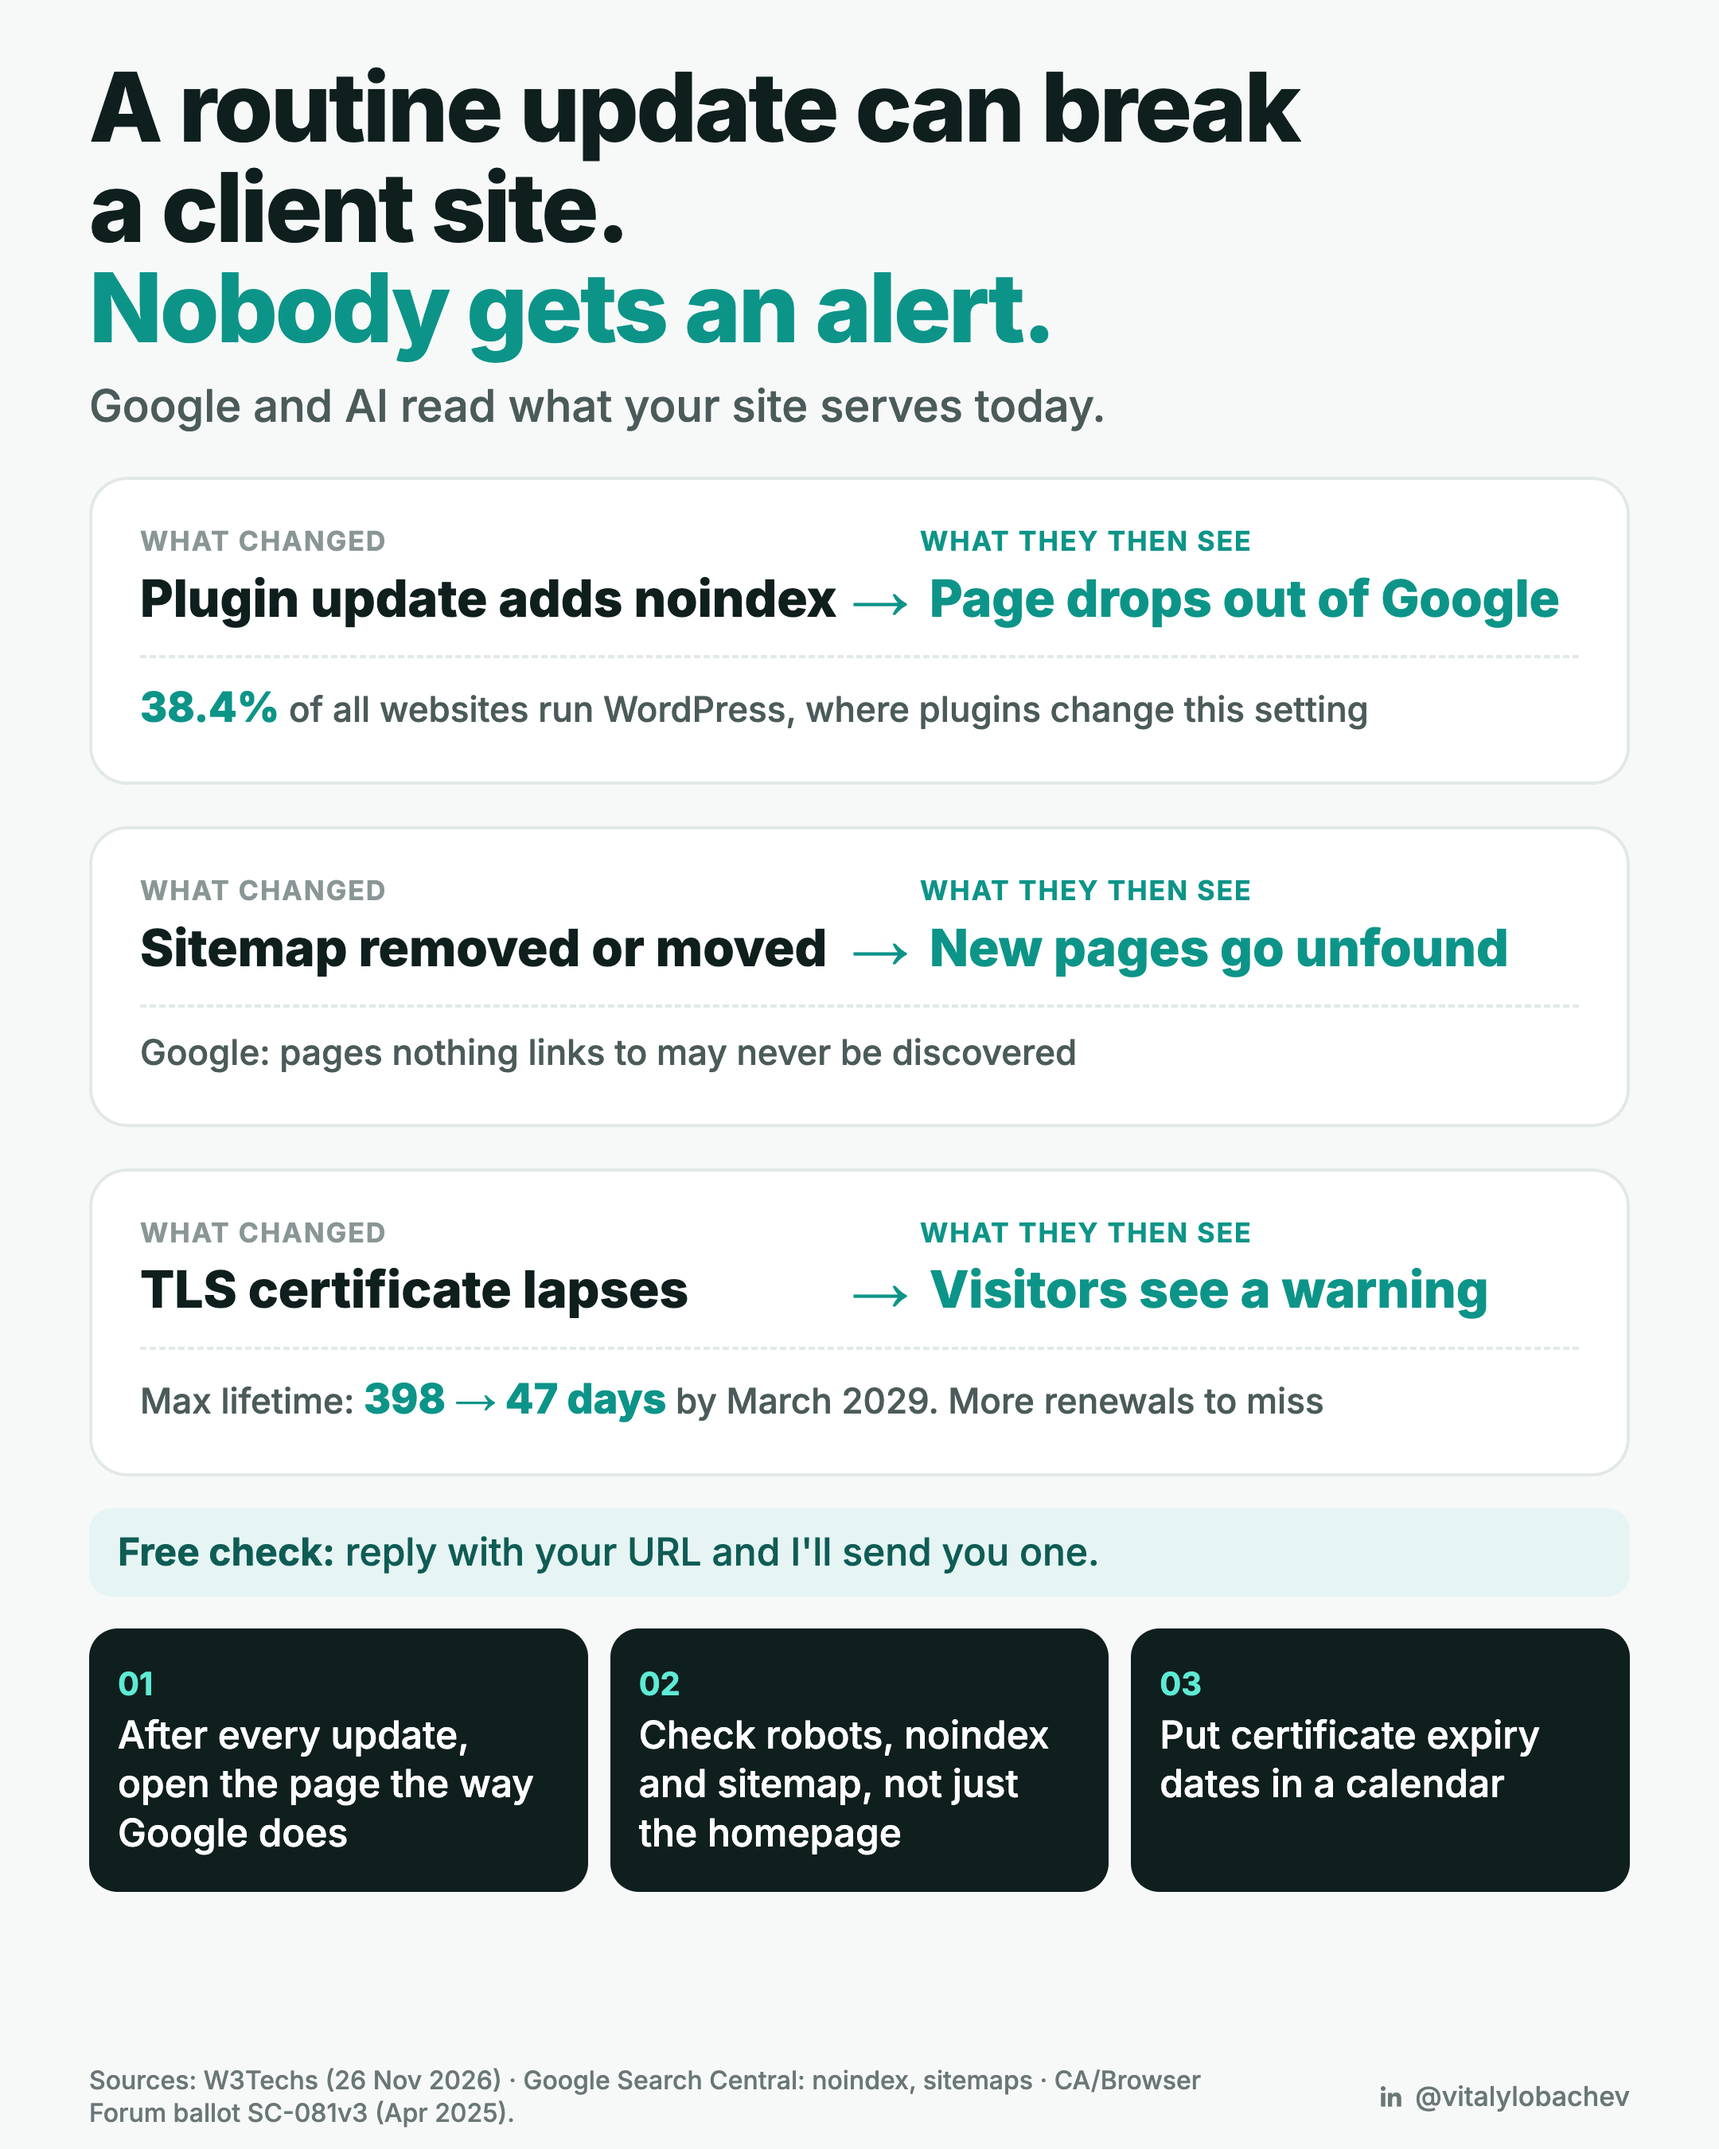
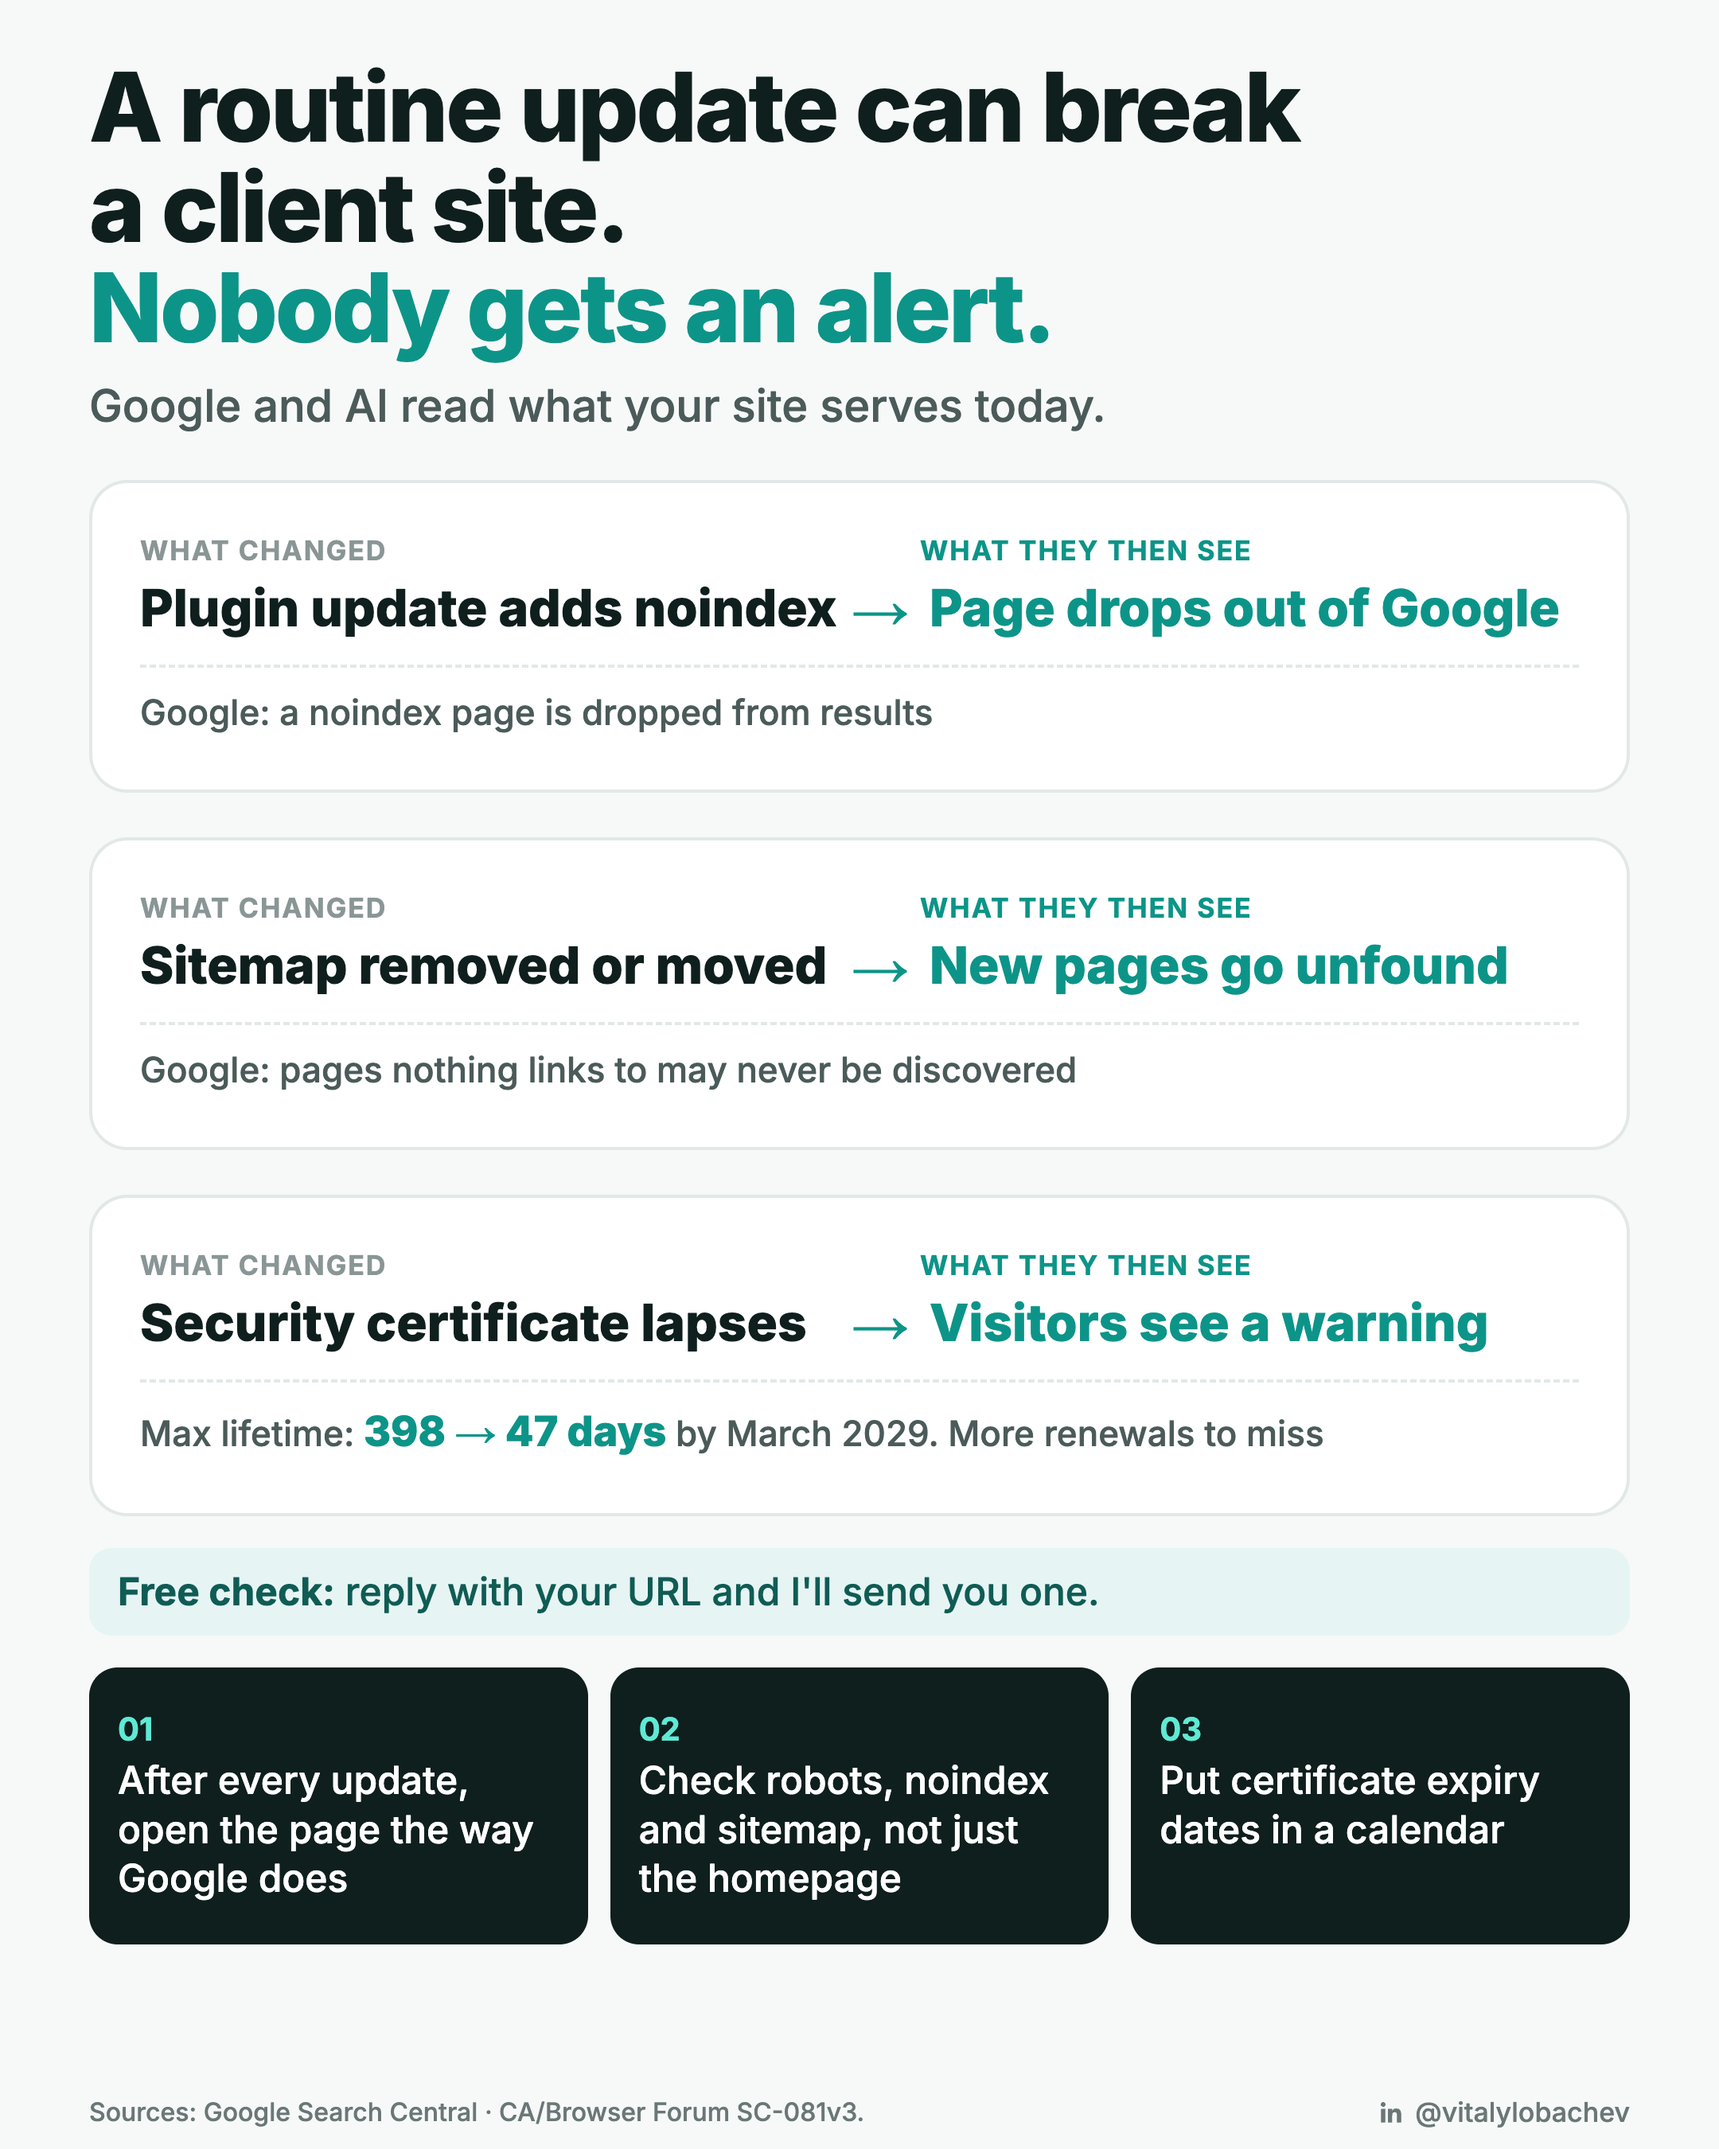
fix(content): drop filler and unsupported number from post 15

diff --git a/posts/15-site-breaks-silently/source/infographic.html b/posts/15-site-breaks-silently/source/infographic.html
@@ -4,7 +4,7 @@ body{width:1080px;height:1350px;background:#f7f9f9;font-family:Inter,-apple-syst
 h1{font-size:60px;line-height:1.05;font-weight:800;letter-spacing:-1.5px}
 h1 em{font-style:normal;color:#0d9488}
 .sub{font-size:28px;line-height:1.3;color:#4b5b5a;margin-top:12px;font-weight:500}
-.card{background:#fff;border:2px solid #e2e8e8;border-radius:24px;padding:28px 30px 30px;margin-top:26px}
+.card{background:#fff;border:2px solid #e2e8e8;border-radius:24px;padding:32px 30px 34px;margin-top:28px}
 .lab{display:flex;font-size:17px;font-weight:700;color:#8a9696;text-transform:uppercase;letter-spacing:1px}
 .lab span:first-child{width:490px}.lab span:last-child{color:#0d9488}
 .pair{display:flex;align-items:center;margin-top:4px}
@@ -15,7 +15,7 @@ h1 em{font-style:normal;color:#0d9488}
 .num b{color:#0d9488;font-size:26px;font-weight:800}
 .note{margin-top:20px;font-size:24px;line-height:1.3;color:#0f5c55;background:#e6f5f3;border-radius:14px;padding:12px 18px}
 .tips{display:flex;gap:14px;margin-top:20px}
-.tip{flex:1;background:#0f1f1e;color:#fff;border-radius:18px;padding:22px 18px;font-size:24px;line-height:1.28;font-weight:500}
+.tip{flex:1;background:#0f1f1e;color:#fff;border-radius:18px;padding:26px 18px;font-size:24px;line-height:1.28;font-weight:500}
 .tip b{color:#5eead4;display:block;font-size:20px;margin-bottom:4px}
 .foot{display:flex;justify-content:space-between;align-items:center;gap:20px;position:absolute;left:56px;right:56px;bottom:12px;font-size:16px;color:#6b7777;line-height:1.3}
 .foot .h{display:flex;align-items:center;gap:6px;font-size:17px;font-weight:500;white-space:nowrap}.foot .src{max-width:720px}.foot .h svg{width:18px;height:18px;display:block;fill:#6b7777}</style></head><body>
@@ -23,14 +23,14 @@ h1 em{font-style:normal;color:#0d9488}
 <p class="sub">Google and AI read what your site serves today.</p>
 <section class="card"><div class="lab"><span>What changed</span><span>What they then see</span></div>
 <div class="pair"><div class="ch">Plugin update adds noindex</div><div class="ar">→</div><div class="se">Page drops out of Google</div></div>
-<div class="num"><b>38.4%</b> of all websites run WordPress, where plugins change this setting</div></section>
+<div class="num">Google: a noindex page is dropped from results</div></section>
 <section class="card"><div class="lab"><span>What changed</span><span>What they then see</span></div>
 <div class="pair"><div class="ch">Sitemap removed or moved</div><div class="ar">→</div><div class="se">New pages go unfound</div></div>
 <div class="num">Google: pages nothing links to may never be discovered</div></section>
 <section class="card"><div class="lab"><span>What changed</span><span>What they then see</span></div>
-<div class="pair"><div class="ch">TLS certificate lapses</div><div class="ar">→</div><div class="se">Visitors see a warning</div></div>
+<div class="pair"><div class="ch">Security certificate lapses</div><div class="ar">→</div><div class="se">Visitors see a warning</div></div>
 <div class="num">Max lifetime: <b>398 → 47 days</b> by March 2029. More renewals to miss</div></section>
 <div class="note"><b>Free check:</b> reply with your URL and I'll send you one.</div>
 <div class="tips"><div class="tip"><b>01</b>After every update, open the page the way Google does</div><div class="tip"><b>02</b>Check robots, noindex and sitemap, not just the homepage</div><div class="tip"><b>03</b>Put certificate expiry dates in a calendar</div></div>
-<div class="foot"><span class="src">Sources: W3Techs (26 Nov 2026) · Google Search Central: noindex, sitemaps · CA/Browser Forum ballot SC-081v3 (Apr 2025).</span><span class="h"><svg viewBox="0 0 24 24"><path d="M20.45 20.45h-3.56v-5.57c0-1.33-.03-3.04-1.85-3.04-1.86 0-2.14 1.45-2.14 2.94v5.67H9.35V9h3.41v1.56h.05c.48-.9 1.64-1.85 3.37-1.85 3.6 0 4.27 2.37 4.27 5.46v6.28zM5.34 7.43a2.06 2.06 0 1 1 0-4.12 2.06 2.06 0 0 1 0 4.12zM7.12 20.45H3.56V9h3.56v11.45z"/></svg>@vitalylobachev</span></div>
+<div class="foot"><span class="src">Sources: Google Search Central · CA/Browser Forum SC-081v3.</span><span class="h"><svg viewBox="0 0 24 24"><path d="M20.45 20.45h-3.56v-5.57c0-1.33-.03-3.04-1.85-3.04-1.86 0-2.14 1.45-2.14 2.94v5.67H9.35V9h3.41v1.56h.05c.48-.9 1.64-1.85 3.37-1.85 3.6 0 4.27 2.37 4.27 5.46v6.28zM5.34 7.43a2.06 2.06 0 1 1 0-4.12 2.06 2.06 0 0 1 0 4.12zM7.12 20.45H3.56V9h3.56v11.45z"/></svg>@vitalylobachev</span></div>
 </body></html>

diff --git a/posts/15-site-breaks-silently/post.md b/posts/15-site-breaks-silently/post.md
@@ -10,15 +10,16 @@ Routine updates quietly break client sites. Google and AI assistants read what t
 
 | Change | Effect | Number | Source |
 |---|---|---|---|
-| Plugin or theme update adds noindex | Page is dropped from Google results | WordPress runs 38.4% of all websites (context for how common plugin-driven sites are; not an effect size) | https://w3techs.com/technologies/details/cm-wordpress (page dated 26 Nov 2026, fetched 26 Nov 2026) |
+| Plugin or theme update adds noindex | Page is dropped from Google results | none | https://developers.google.com/search/docs/crawling-indexing/block-indexing |
 | Sitemap removed or moved | New pages stop getting found | none | Qualitative: https://developers.google.com/search/docs/crawling-indexing/sitemaps/overview ("Googlebot might not discover your pages if no other sites link to them") |
-| TLS certificate lapses | Browser warns before the site loads | Max certificate validity 398 → 47 days, March 2026 to March 2029 | https://cabforum.org/2025/04/11/ballot-sc081v3-introduce-schedule-of-reducing-validity-and-data-reuse-periods/ (vote closed 11 Apr 2025, fetched 26 Nov 2026) |
+| Security (TLS) certificate lapses | Browser warns before the site loads | Max certificate validity 398 → 47 days, March 2026 to March 2029 | https://cabforum.org/2025/04/11/ballot-sc081v3-introduce-schedule-of-reducing-validity-and-data-reuse-periods/ (vote closed 11 Apr 2025, fetched 26 Nov 2026) |
 
 noindex behaviour (no number): Google drops a page from results once it crawls the tag. https://developers.google.com/search/docs/crawling-indexing/block-indexing
 
 ## Numbers and checks
 
-- 38.4%: web-verified 26 Nov 2026 on W3Techs. It says how much of the web is on WordPress, not how often updates add noindex. The caption states only the fact.
+- 38.4% WordPress share was considered and removed: it does not support the noindex claim.
+- No number for the noindex pair.
 - 398 → 47 days: web-verified on the CA/Browser Forum page. The page gives the endpoints (starting March 2026, concluding March 2029); intermediate steps (200 days from 15 Mar 2026, 100 days from 15 Mar 2027) come from secondary sources and are not used in the post.
 - No source found for "visitors leave" after a certificate warning (searched; click-through studies conflict), so the post says "see a browser warning first" and gives no abandonment number.
 - No number for the sitemap pair.
